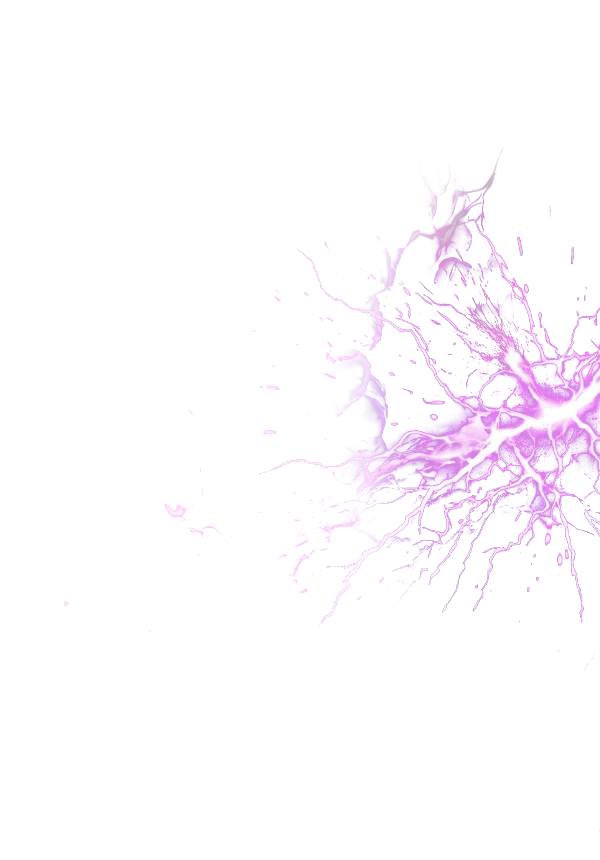
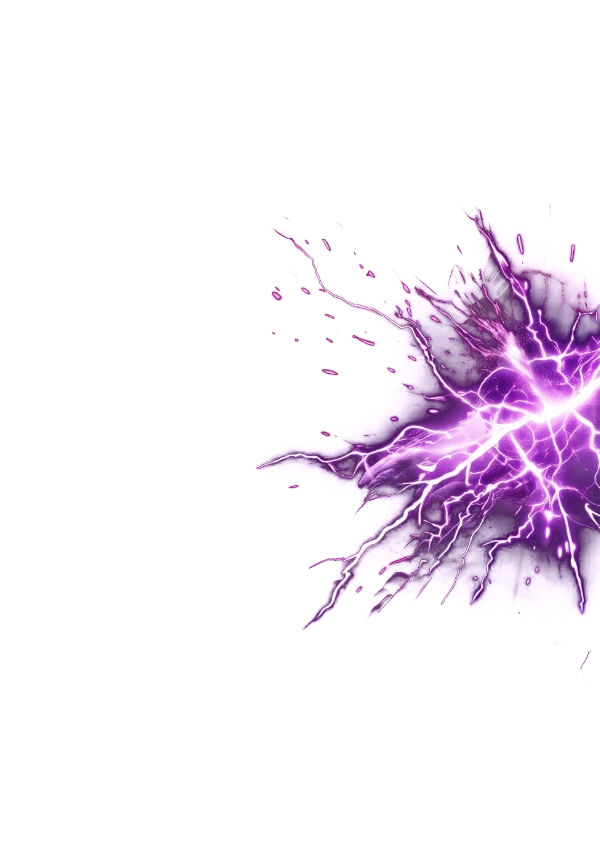
rebuild the Time do Mes card from the Gemini layers, without animation

diff --git a/components/cancha-card.tsx b/components/cancha-card.tsx
@@ -73,8 +73,8 @@ export type Roupa = {
    * (`overflowBolts`), acendendo e apagando por inteiro, como um trovão.
    */
   innerBolts?: string;
-  /** Os raios acendem de uma ponta à outra (`cc-bolt-in`/`cc-bolt-out`), em vez de piscar por inteiro. */
-  sweep?: "raio";
+  /** Os raios (`innerBolts` e `overflowBolts`) ficam parados, sem animação. */
+  still?: boolean;
 };
 
 const GOLD = ["#7a5512", "#e9c86a", "#fff4c8"] as const;
@@ -147,14 +147,14 @@ const HIGHLIGHT_ART = new Set<AwardKind>(["atacante", "criativo", "defensor", "g
  * Não veste o tema do mês (`hasSeasonalTheme`). As cartas de outubro seguem no cristal (`MONTH_ROUPA_CRISTAL`).
  */
 const MONTH_ROUPA: Roupa = {
-  // Arte do dono do app (2026-11-02): neon roxo por fora com a coroa, painel de vidro e tempestade roxa com um aglomerado de
-  // raios que passa por cima da moldura e acende como trovão (`prototipos/premium-time-do-mes.cjs`).
+  // Arte do dono do app em camadas (2026-11-02): neon roxo com a coroa, tempestade roxa e um aglomerado de raios por cima da moldura
+  // que muda de intensidade, sem apagar (`prototipos/premio-time-do-mes.cjs`).
   background: "premium-time-do-mes",
   overflow: "premium-time-do-mes-vaza",
-  overflowWidth: 774 / 714,
+  overflowWidth: 790 / 714,
   overflowBolts: "premium-time-do-mes-raios",
   innerBolts: "premium-time-do-mes-raios-dentro",
-  sweep: "raio",
+  still: true,
   artFrame: true,
   clean: true,
   metal: ["#b8902f", "#b8902f", "#fff1c2"],
@@ -197,7 +197,7 @@ const MONTH_ROUPA_CRISTAL: Roupa = {
   overflowWidth: undefined,
   overflowBolts: undefined,
   innerBolts: undefined,
-  sweep: undefined,
+  still: false,
   artFrame: false,
   clean: false,
 };
@@ -698,7 +698,7 @@ export function CanchaCard({ player, award, className, photoSizes, photoFrame = 
       >
         {roupa.innerBolts && (
           // eslint-disable-next-line @next/next/no-img-element -- arte decorativa do tamanho da janela, sem otimizar
-          <img aria-hidden alt="" src={`/cartas/fundos/${roupa.innerBolts}.webp`} className={cn("pointer-events-none absolute inset-0 z-[2] size-full select-none motion-reduce:animate-none", roupa.sweep ? "animate-[cc-bolt-in_3.2s_linear_infinite]" : "animate-[cc-thunder-flash_3.2s_linear_infinite]")} />
+          <img aria-hidden alt="" src={`/cartas/fundos/${roupa.innerBolts}.webp`} className={cn("pointer-events-none absolute inset-0 z-[2] size-full select-none motion-reduce:animate-none", !roupa.still && "animate-[cc-thunder-flash_3.2s_linear_infinite]")} />
         )}
         {/* Clarão atrás da cabeça, na cor da luz da roupa. */}
         {!roupa.matte && (
@@ -825,7 +825,7 @@ export function CanchaCard({ player, award, className, photoSizes, photoFrame = 
       {roupa.overflowBolts && (
         // Os raios das decorações estalam como trovão (só `opacity`; com movimento reduzido, ficam acesos).
         // eslint-disable-next-line @next/next/no-img-element -- arte decorativa do tamanho da caixa, sem otimizar
-        <img aria-hidden alt="" src={`/cartas/fundos/${roupa.overflowBolts}.webp`} className={cn("pointer-events-none absolute top-0 left-0 z-[12] h-full select-none motion-reduce:animate-none", roupa.overflowWidth ? "max-w-none" : "w-full", roupa.sweep ? "animate-[cc-bolt-out_3.2s_linear_infinite]" : roupa.innerBolts ? "animate-[cc-thunder-flash_3.2s_linear_infinite]" : "animate-[cc-thunder-strike_2.4s_linear_infinite]")} style={roupa.overflowWidth ? { width: `${roupa.overflowWidth * 100}%`, left: `${-(roupa.overflowLeft ?? 0) * 100}%` } : undefined} />
+        <img aria-hidden alt="" src={`/cartas/fundos/${roupa.overflowBolts}.webp`} className={cn("pointer-events-none absolute top-0 left-0 z-[12] h-full select-none motion-reduce:animate-none", roupa.overflowWidth ? "max-w-none" : "w-full", roupa.still ? "" : roupa.innerBolts ? "animate-[cc-thunder-flash_3.2s_linear_infinite]" : "animate-[cc-thunder-strike_2.4s_linear_infinite]")} style={roupa.overflowWidth ? { width: `${roupa.overflowWidth * 100}%`, left: `${-(roupa.overflowLeft ?? 0) * 100}%` } : undefined} />
       )}
     </div>
   ) : (

diff --git a/app/globals.css b/app/globals.css
@@ -349,32 +349,6 @@
   6% { opacity: 1; }
   14% { opacity: 0; }
 }
-/*
- * Time do Mês: o raio nasce numa ponta e vai acendendo até a outra, como um raio de verdade: o recorte (`clip-path` em polígono, com a
- * frente irregular) cresce da esquerda para a direita, segura, apaga e dá um segundo clarão. `in` é o raio de dentro da carta
- * (começa a 18% da largura da janela) e `out` o de fora, que só começa a crescer quando o de dentro já chegou ao aro. Sem `filter`
- * (iPhone) e, com movimento reduzido, ficam acesos.
- */
-@keyframes cc-bolt-in {
-  0% { opacity: 1; clip-path: polygon(0 0, 18% 0, 18% 25%, 18% 50%, 18% 75%, 18% 100%, 0 100%); }
-  2% { opacity: 1; clip-path: polygon(0 0, 34% 0, 26% 25%, 40% 50%, 29% 75%, 36% 100%, 0 100%); }
-  4% { opacity: 1; clip-path: polygon(0 0, 60% 0, 47% 25%, 66% 50%, 52% 75%, 62% 100%, 0 100%); }
-  6% { opacity: 1; clip-path: polygon(0 0, 112% 0, 110% 25%, 114% 50%, 110% 75%, 112% 100%, 0 100%); }
-  15% { opacity: 1; clip-path: polygon(0 0, 112% 0, 112% 25%, 112% 50%, 112% 75%, 112% 100%, 0 100%); }
-  20%, 100% { opacity: 0; clip-path: polygon(0 0, 112% 0, 112% 25%, 112% 50%, 112% 75%, 112% 100%, 0 100%); }
-  23% { opacity: 0.85; clip-path: polygon(0 0, 112% 0, 112% 25%, 112% 50%, 112% 75%, 112% 100%, 0 100%); }
-  27% { opacity: 0; clip-path: polygon(0 0, 112% 0, 112% 25%, 112% 50%, 112% 75%, 112% 100%, 0 100%); }
-}
-@keyframes cc-bolt-out {
-  0% { opacity: 1; clip-path: polygon(0 0, 80% 0, 80% 25%, 80% 50%, 80% 75%, 80% 100%, 0 100%); }
-  5% { opacity: 1; clip-path: polygon(0 0, 80% 0, 80% 25%, 80% 50%, 80% 75%, 80% 100%, 0 100%); }
-  7.5% { opacity: 1; clip-path: polygon(0 0, 93% 0, 89% 25%, 96% 50%, 91% 75%, 94% 100%, 0 100%); }
-  10% { opacity: 1; clip-path: polygon(0 0, 112% 0, 110% 25%, 114% 50%, 110% 75%, 112% 100%, 0 100%); }
-  18% { opacity: 1; clip-path: polygon(0 0, 112% 0, 112% 25%, 112% 50%, 112% 75%, 112% 100%, 0 100%); }
-  23%, 100% { opacity: 0; clip-path: polygon(0 0, 112% 0, 112% 25%, 112% 50%, 112% 75%, 112% 100%, 0 100%); }
-  26% { opacity: 0.85; clip-path: polygon(0 0, 112% 0, 112% 25%, 112% 50%, 112% 75%, 112% 100%, 0 100%); }
-  30% { opacity: 0; clip-path: polygon(0 0, 112% 0, 112% 25%, 112% 50%, 112% 75%, 112% 100%, 0 100%); }
-}
 /* O mesmo estalo sem apagar de todo: os fios finos da moldura elétrica e os raios das decorações do Relâmpago. */
 @keyframes cc-thunder-strike {
   0%, 100% { opacity: 0.25; }

diff --git a/.claude/rules/design-system.md b/.claude/rules/design-system.md
@@ -44,7 +44,7 @@ Desde 2026-10-29 todas as cartas usam a `CanchaCard` (o `PlayerCard` a chama). A
 - **Melhor Jogador (enfeite aprovado pelo dono do app em 2026-10-29):** estrela acesa no topo, acima do nome, e **um fio só** abraçando a base (dois ficaria igual às premium), em qualquer tema (no Halloween, no lugar da teia; `NEON_TRIMS.craque`).
 - **Melhor Jogador, versão em camadas (2026-11-02, fora de evento e no Toró; aprovada pelo dono do app):** o primeiro desenho que o Gemini entregou **em peças separadas**, como o dono propôs (primeiro a borda, depois o fundo e depois o render em 3D, todas na proporção 2:3 e com a carta na mesma posição, mesmo com resoluções diferentes): o **sol com circuitos dourados** (fundo), o **tubo de neon dourado com fogo** e a estrela no topo (borda) e uma **coroa em chamas** com faíscas que passa por cima da moldura pela direita (render). `prototipos/premio-craque-fogo.cjs`: sem separar nem preencher nada, a ordem é fundo → borda → render → foto e informações; a **coroa tem alfa próprio e fica POR CIMA da borda, tapando-a** (misturada com `screen`, o neon e o fio de dentro apareciam através dela: o dono pediu cuidado nisso), `overflowWidth` 824/714; **o conteúdo (foto, nome e estatísticas) fica por dentro do fio fino de dentro da borda** (`window: "inner"`, 5,8% da largura e 4,2% da altura para dentro: pedido do dono do app, "a única coisa que vaza para fora da carta é o render 3D"; a borda, a faixa entre ela e o conteúdo, com o fundo por baixo, e a coroa são a camada por cima, `-vaza`). **A estrela do topo** fica inteira (a janela do conteúdo cobria a metade de baixo dela, então ela vai na camada de cima, em volta da janela, **pintada por cima da camada de baixo** com o brilho e a transparência dela: a faixa de transição da borda da janela, de 2 px parcialmente escuros, deixava um risco por cima da estrela; estender a camada opaca para dentro da janela deixou um retângulo de outro tom e foi descartado). **O render é só a coroa com as chamas dela**: a fumaça cinza e o rastro de faíscas de baixo saem (a fumaça de baixo à direita deixava o corte do ombro do jogador à mostra; o dono pediu "deixe somente a coroa"), tirados pelo alfa (só o que é quente e tem corpo; o clarão branco do centro fica) **com a cor do render saindo junto, na mesma proporção** (senão o tom frio da fumaça vazava em pontinhos azulados), mais um corte geográfico na fumaça de baixo à direita. **Sem animação**: a coroa acendendo (recorte que cresce, chama bruxuleando, ciclo de 4,4 s) foi feita e o dono achou horrível, então saiu (as animações de acender ficam só no Time do Mês). Receita para as próximas cartas (mais fácil que a arte achatada): pedir 3 imagens do mesmo tamanho e com a carta no mesmo lugar (fundo; borda com o miolo preto; render inteiro, sem corte e **pequeno, mais da metade para fora da carta**, porque a parte de dentro fica atrás do jogador); no fundo, sem o contorno branco em volta do cartão. As cartas do Halloween ficam como estavam. O desenho do sol art déco (`premio-craque-default`) segue só na capa do pacote.
 - **Prêmios:** Melhor Jogador com a taça ao lado do jogador nos eventos e, fora deles, o **sol art déco** (aprovado pelo dono do app em 2026-10-31, a partir das referências de sol dele: metal escovado escuro com o sol gravado em sulcos acesos de ouro atrás da cabeça, como uma auréola, na força cheia; o dono testou versões em marca d'água e preferiu a acesa; descartados o pôr do sol em faixas e o sol em chamas; `prototipos/craque-sol.cjs`). **Destaques fora de evento: a água** (aprovado pelo dono do app em 2026-10-31, a partir das referências dele): **mármore líquido** em azul-marinho escuro (faixas em dois tons com um fio claro na borda, `premio-destaque-agua`, `prototipos/destaques-agua.cjs`; descartadas as cáusticas e a topografia), um fundo só para todos, **sem o ícone do prêmio** (o que distingue é a faixa com o nome), e no topo a **nuvem chovendo em neon** (o ícone que o dono mandou: nuvem fechada e quatro pingos inclinados, `NEON_TRIMS.chuva`) com o traço curto na base, destaques (Atacante, Criativo, Defensor, Goleiro, Gol) com o ícone do prêmio ao lado, vestindo o tema do mês; moldura em neon na cor do prêmio, com um **traço curto com a pontinha para baixo no meio da base** (`NEON_TRIMS.destaque`) e, no Halloween, também uma **abóbora acesa no centro do topo** (`NEON_TRIMS.abobora`, no lugar da teia de antes). O Time da Semana antigo (fora do jogo) usa neon dourado e a mesma regra. **Enfeites mais neon** (2026-10-29): todo enfeite tem o miolo quase branco (`NEON_CORE`) e halo mais forte, como o tubo da moldura.
-- **Time do Mês (2026-11-02, arte do dono do app):** tubo de **neon roxo** em volta (a ~40 px do painel, com o espaço escuro entre os dois), **coroa de neon** no topo, painel de vidro escuro e céu de **tempestade roxa** com um aglomerado de raios que passa por cima da moldura pela direita e **acende e apaga como trovão** (`innerBolts` atrás do jogador, `overflowBolts` por fora). `prototipos/premium-time-do-mes.cjs` (derivado da Nuvem): raios achados pela luminância perceptual (o brilho roxo tem luminância baixa, os raios são branco-lilás), o espaço acima da moldura encolhe 14% para a coroa caber na sobra e a nuvem de raios esmaece antes da borda direita da arte. Roupa com `artFrame`, `clean` e `overflowWidth` 774/714. **O raio acende de uma ponta à outra** (`sweep: "raio"`; pedido do dono do app: "algo mais orgânico", não aparecer e sumir por inteiro): `cc-bolt-in` (dentro) e `cc-bolt-out` (fora) crescem um `clip-path` em polígono de frente irregular da esquerda para a direita em ~0,2 s, seguram, apagam e dão um segundo clarão, num ciclo de 3,2 s; o de fora só começa quando o de dentro chega ao aro (sem `filter`, iPhone; com movimento reduzido ficam acesos; só o Time do Mês usa, as outras cartas ainda piscam por inteiro). **O aglomerado inteiro pisca** (os raios E o clarão roxo em volta, dentro e fora; apagado, o fundo fica só com as nuvens, preenchidas por média em dois níveis porque o clarão é um buraco grande; deixar o clarão fixo deixava uma mancha roxa encostada no aro), e os raios passam **por cima** do aro e do tubo (tudo o que difere da moldura limpa (o raio inteiro com o brilho) entra na camada que pisca; o neon fixo sob o aglomerado usa o trecho limpo da linha 1520). Substituiu o trovão em neon concêntrico de 2026-10-31 (ninguém chegou a ganhá-lo; fundo e script removidos). **As cartas ganhas em outubro continuam no cristal roxo com a coroa** (`MONTH_ROUPA_CRISTAL`, tema `halloween`). **Bola Murcha:** o **alagamento** (aprovado pelo dono do app em 2026-10-31, no lugar do bronze oxidado): parede escura escorrendo água em cima e **água barrenta subindo** até a metade da carta, com bolhas e a bola murcha **boiando na linha da água** ao lado do jogador (anéis de onda e o reflexo apagado; descartadas as poças no chão e a quadra alagada; `prototipos/murcha-alagamento.cjs`), fosca, **neon apagado** (`neonDim`) e sem enfeite.
+- **Time do Mês (2026-11-02, refeito com as peças separadas do Gemini; a primeira versão, de uma arte achatada, tinha o render "feio", dizia o dono):** três imagens do mesmo tamanho e com a carta no mesmo lugar: o fundo (tempestade roxa, já com um clarão de raios), a borda (tubo de **neon roxo** com a **coroa** e o aro de vidro) e o render (o aglomerado de raios sobre preto, que passa por cima da moldura pela direita). `prototipos/premio-time-do-mes.cjs`: fundo → borda → render, sem separar nem preencher nada. **A borda veio com um xadrez cinza assado na imagem** (o "fundo transparente" falso): o tubo, a coroa e o aro saem pela cor e pelo brilho, e o **brilho em volta é refeito como um desfoque da própria borda, em roxo** (o original vinha misturado ao xadrez e aparecia em blocos). O render ganha alfa pelo brilho (a cor sai junto, na mesma proporção) e esmaece nos últimos px da imagem (ele vem cortado reto na borda direita). **Sem animação** (`still: true`): o dono viu o raio variando de intensidade (`cc-bolt-pulse`, entre 45% e 100%), o raio acendendo de uma ponta à outra e o raio apagando por inteiro, e achou todas ruins; o render de dentro (`innerBolts`, atrás do jogador) e o de fora (`overflowBolts`, por cima da moldura) ficam parados. Roupa com `artFrame`, `clean` e `overflowWidth` 790/714. **As cartas ganhas em outubro continuam no cristal roxo com a coroa** (`MONTH_ROUPA_CRISTAL`, tema `halloween`). **Bola Murcha:** o **alagamento** (aprovado pelo dono do app em 2026-10-31, no lugar do bronze oxidado): parede escura escorrendo água em cima e **água barrenta subindo** até a metade da carta, com bolhas e a bola murcha **boiando na linha da água** ao lado do jogador (anéis de onda e o reflexo apagado; descartadas as poças no chão e a quadra alagada; `prototipos/murcha-alagamento.cjs`), fosca, **neon apagado** (`neonDim`) e sem enfeite.
 - **Brilho e enfeite do neon num SVG ao lado da carta** (`NeonOverlay`, 2026-10-29): o halo são traços do contorno, não `box-shadow`, e o lado direito do enfeite é espelhado no código (`mirrorPath`), sem `transform`. A captura do story no iPhone (`modern-screenshot`) desenhava a sombra como um bloco de cor e cortava o que passava da carta.
 - **Cartas já ganhas não mudam de desenho** (pedido do dono do app em 2026-10-31): Time do Mês e Bola Murcha não vestem o tema do mês, mas trocaram de desenho em 2026-10-31; as ganhas antes (gravadas com o tema `halloween`) continuam com o cristal roxo com a coroa (`premio-time-do-mes-cristal`) e o bronze oxidado (`premio-bola-murcha-bronze`). Ao trocar o desenho de um prêmio, guarde o antigo e escolha pelo tema gravado na carta.
 - **Carta de neon** (skins, prêmios, Time do Mês e Bola Murcha, com ou sem enfeite) ocupa os 84% do meio da própria caixa (`TRIMMED_CARD`), e o enfeite e o brilho usam a sobra: nunca encostam em margem nem na carta do lado, e os prêmios ficam do mesmo tamanho lado a lado. Por isso aparecem um pouco menores que a carta padrão (metal).

diff --git a/CLAUDE.md b/CLAUDE.md
@@ -16,7 +16,7 @@ Design mobile-first é inegociável: a interação principal (dar notas no vesti
 
 **Foco do produto:** é um "fantasy" da pelada: nota, carta, OVR e sorteio. Confirmação de presença e placar ficam no WhatsApp; não construa gestão de pelada além do necessário.
 
-**Carta com identidade própria (versão 2.0.0, 2026-10-29, decisão do dono do app: sair do visual do EA FC):** `components/cancha-card.tsx` (`CanchaCard`, usada pelo `PlayerCard`; o desenho antigo ficou em `LegacyPlayerCard`): retangular 5:7, 3 estatísticas no rodapé, patentes Peneira/Base/Profissional/Seleção/Lenda (`lib/card-rank.ts`, pelos mesmos cortes de OVR das faixas), carta padrão em grafite fosco com moldura fina de metal polido, skins premium (Esmeralda, Safira, Ametista e Rubi com a **arte de cristais gerada pelo dono no Gemini, uma só para as quatro, que muda só o tom dos azuis** (desde 2026-11-01; fio de ouro, neon concêntrico e um aglomerado de cristais que passa por cima da moldura; `prototipos/premium-v2.cjs`); a **Nuvem carregada** (nível 3, evento Toró) com a arte de tempestade do Gemini, **raios separados que acendem e apagam como trovão** (`innerBolts` atrás do jogador e `overflowBolts` por cima da moldura; `prototipos/premium-nuvem.cjs`; a moldura elétrica e os mini raios em código saíram), e a **Ícone** com a arte de mármore branco-creme, quartzo e diamantes do Gemini, **sem sombras por cima do fundo** (`clean`), desde 2026-11-01, `prototipos/premium-icone.cjs`; Turquesa e Ônix saíram) e Time do Mês (arte do dono do app de 2026-11-02: neon roxo com coroa, tempestade roxa e raios que acendem; as de outubro ficam no cristal) em **tubo de neon** com o enfeite que abraça a base, Lobisomem (garras e presas) e Vampiro (morcego e asa) com enfeite próprio, prêmios em neon sem enfeite e a Bola Murcha em neon apagado. Fundos em `public/cartas/fundos/`, gerados pelos scripts de `docs/superpowers/specs/2026-10-28-cartas-assets/prototipos/`. Decisões em `docs/superpowers/specs/2026-10-28-cartas-identidade-propria-design.md` e no design-system.
+**Carta com identidade própria (versão 2.0.0, 2026-10-29, decisão do dono do app: sair do visual do EA FC):** `components/cancha-card.tsx` (`CanchaCard`, usada pelo `PlayerCard`; o desenho antigo ficou em `LegacyPlayerCard`): retangular 5:7, 3 estatísticas no rodapé, patentes Peneira/Base/Profissional/Seleção/Lenda (`lib/card-rank.ts`, pelos mesmos cortes de OVR das faixas), carta padrão em grafite fosco com moldura fina de metal polido, skins premium (Esmeralda, Safira, Ametista e Rubi com a **arte de cristais gerada pelo dono no Gemini, uma só para as quatro, que muda só o tom dos azuis** (desde 2026-11-01; fio de ouro, neon concêntrico e um aglomerado de cristais que passa por cima da moldura; `prototipos/premium-v2.cjs`); a **Nuvem carregada** (nível 3, evento Toró) com a arte de tempestade do Gemini, **raios separados que acendem e apagam como trovão** (`innerBolts` atrás do jogador e `overflowBolts` por cima da moldura; `prototipos/premium-nuvem.cjs`; a moldura elétrica e os mini raios em código saíram), e a **Ícone** com a arte de mármore branco-creme, quartzo e diamantes do Gemini, **sem sombras por cima do fundo** (`clean`), desde 2026-11-01, `prototipos/premium-icone.cjs`; Turquesa e Ônix saíram) e Time do Mês (arte do dono do app de 2026-11-02 em camadas separadas do Gemini: neon roxo com coroa, tempestade roxa e raios parados (o dono achou ruins as animações que testamos); as de outubro ficam no cristal) em **tubo de neon** com o enfeite que abraça a base, Lobisomem (garras e presas) e Vampiro (morcego e asa) com enfeite próprio, prêmios em neon sem enfeite e a Bola Murcha em neon apagado. Fundos em `public/cartas/fundos/`, gerados pelos scripts de `docs/superpowers/specs/2026-10-28-cartas-assets/prototipos/`. Decisões em `docs/superpowers/specs/2026-10-28-cartas-identidade-propria-design.md` e no design-system.
 
 **Design system:** todas as decisões visuais e de UX (tema, paleta, raridade, anatomia da carta, atributos de linha/goleiro, foto, tela de notas, Draft) estão em `.claude/rules/design-system.md` (carregado automaticamente). Leia antes de criar UI.
 
